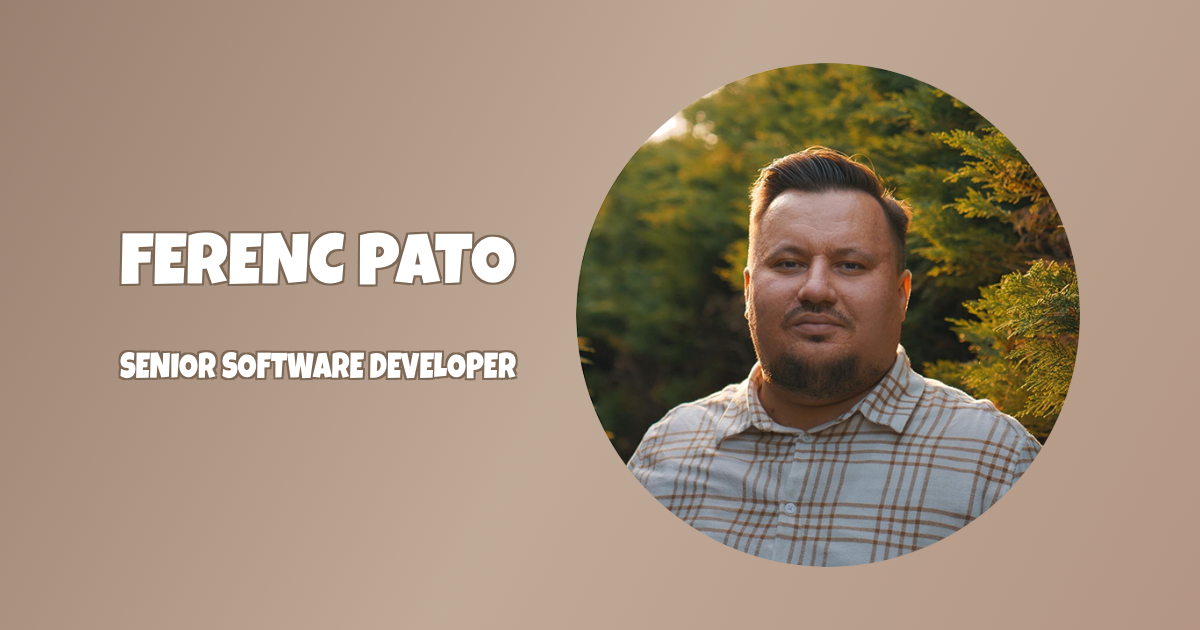
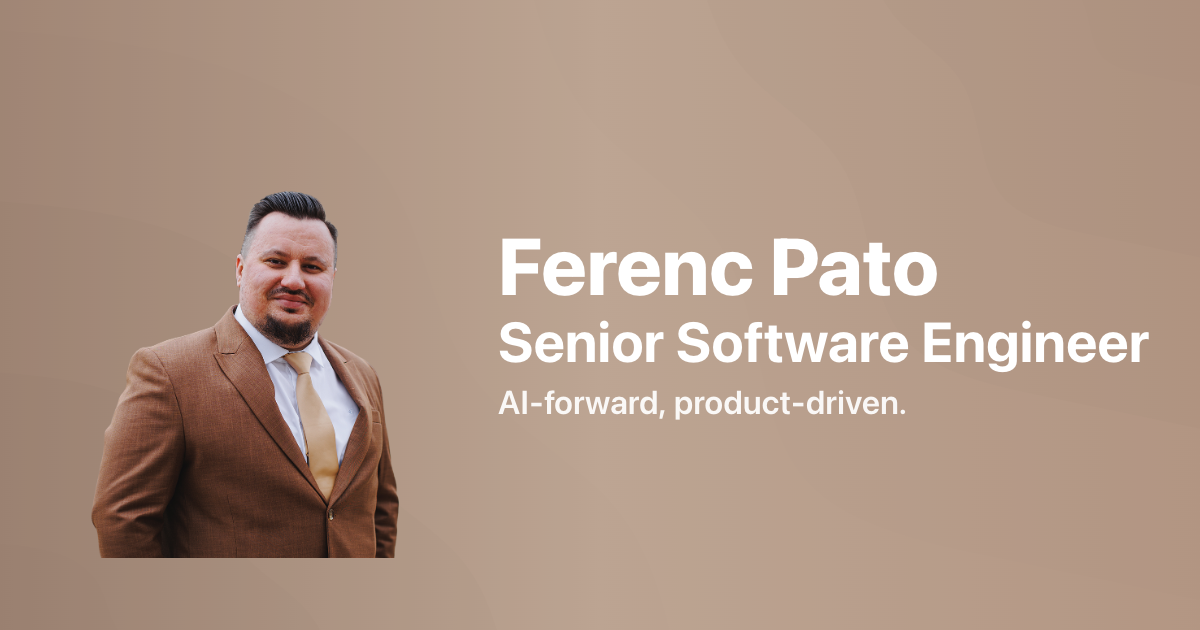
Redesign hero preview generator layout and visuals
Updated the logo-generator.html to use a new portrait image, add a soft blob background, and improve the layout for better alignment and aesthetics. Changed the title and heading to 'Hero Preview Generator', adjusted text styling, and enhanced the canvas drawing logic for a more modern and visually appealing preview. Also updated the preview image to match the new design.

diff --git a/logo-generator.html b/logo-generator.html
@@ -3,7 +3,7 @@
 <head>
     <meta charset="UTF-8">
     <meta name="viewport" content="width=device-width, initial-scale=1.0">
-    <title>Social Media Preview Generator</title>
+    <title>Hero Preview Generator</title>
     <link rel="stylesheet" href="css/styles.css">
     <link rel="stylesheet" href="https://fonts.googleapis.com/css2?family=SF+Pro+Display:wght@400;500;600;700&display=swap">
     <style>
@@ -48,7 +48,7 @@
 </head>
 <body>
     <div class="preview-container">
-        <h1>Social Media Preview Generator</h1>
+        <h1>Hero Preview Generator</h1>
         <div class="canvas-container">
             <canvas id="previewCanvas"></canvas>
         </div>
@@ -62,57 +62,96 @@
         const canvas = document.getElementById('previewCanvas');
         const ctx = canvas.getContext('2d');
         const portrait = new Image();
-        portrait.src = 'images/portrait.png';
+        portrait.src = 'images/portrait2.png';
+        const blobBg = new Image();
+        blobBg.src = 'images/blob-bg.svg';
 
         function generatePreview(width, height) {
             canvas.width = width;
             canvas.height = height;
 
-            // Draw background gradient
-            const gradient = ctx.createLinearGradient(0, 0, width, height);
+            // Draw background gradient matching index hero
+            const gradient = ctx.createLinearGradient(0, 0, width, 0);
             gradient.addColorStop(0, '#9a8070');
             gradient.addColorStop(0.5, '#c0aa98');
             gradient.addColorStop(1, '#b39683');
             ctx.fillStyle = gradient;
             ctx.fillRect(0, 0, width, height);
 
-            // Calculate portrait size and position first
-            const portraitSize = height * 0.8;
-            const portraitX = width - portraitSize - width * 0.1;
-            const portraitY = (height - portraitSize) / 2;
-            
-            // Calculate text area width to avoid overlap
-            const textAreaWidth = portraitX - width * 0.15; // Leave some space between text and image
-
-            // Add text shadow effect
-            function addTextShadow(text, x, y, fontSize, maxWidth) {
-                ctx.font = `${fontSize}px "Luckiest Guy"`;
-                const shadowColor = '#7c6755';
-                const shadowOffset = 2;
-                
-                // Draw shadow
-                ctx.fillStyle = shadowColor;
-                ctx.fillText(text, x - shadowOffset, y - shadowOffset, maxWidth);
-                ctx.fillText(text, x + shadowOffset, y - shadowOffset, maxWidth);
-                ctx.fillText(text, x - shadowOffset, y + shadowOffset, maxWidth);
-                ctx.fillText(text, x + shadowOffset, y + shadowOffset, maxWidth);
-                
-                // Draw main text
-                ctx.fillStyle = '#fff';
-                ctx.fillText(text, x, y, maxWidth);
+            // Overlay blob background (soft)
+            if (blobBg.complete) {
+                ctx.save();
+                ctx.globalAlpha = 0.25;
+                const bw = blobBg.width || width;
+                const bh = blobBg.height || height;
+                const scale = Math.max(width / bw, height / bh);
+                const dw = bw * scale;
+                const dh = bh * scale;
+                const dx = (width - dw) / 2;
+                const dy = (height - dh) / 2;
+                ctx.drawImage(blobBg, dx, dy, dw, dh);
+                ctx.restore();
             }
 
-            // Apply text shadows with maximum width - adjusted Y positions to be more centered
-            addTextShadow('FERENC PATO', width * 0.1, height * 0.45, 72, textAreaWidth);
-            addTextShadow('SENIOR SOFTWARE DEVELOPER', width * 0.1, height * 0.6, 36, textAreaWidth);
+            // Layout
+            const padding = Math.round(width * 0.06);
+            const gap = Math.round(width * 0.04);
 
-            // Draw portrait
-            ctx.save();
-            ctx.beginPath();
-            ctx.arc(portraitX + portraitSize/2, portraitY + portraitSize/2, portraitSize/2, 0, Math.PI * 2);
-            ctx.clip();
-            ctx.drawImage(portrait, portraitX, portraitY, portraitSize, portraitSize);
-            ctx.restore();
+            // Portrait: bottom-left, larger, preserve aspect ratio
+            let imgW = portrait.width || 1;
+            let imgH = portrait.height || 1;
+            const maxImgW = Math.floor(width * 0.45); // larger image, still leaves room for text
+            const maxImgH = Math.floor(height * 0.60);
+            const imgScale = Math.min(maxImgW / imgW, maxImgH / imgH);
+            const drawW = Math.floor(imgW * imgScale);
+            const drawH = Math.floor(imgH * imgScale);
+            const imgX = padding;
+            const imgY = Math.floor(height - drawH - padding);
+            if (portrait.complete) {
+                ctx.drawImage(portrait, imgX, imgY, drawW, drawH);
+            }
+
+            // Text: to the right of the image; vertically centered in canvas
+            const textX = imgX + drawW + gap;
+            ctx.fillStyle = '#ffffff';
+            ctx.textBaseline = 'alphabetic';
+
+            const nameSize = Math.max(42, Math.min(80, Math.floor(width * 0.07)));
+            const roleSize = Math.floor(nameSize * 0.7);
+            const subSize = Math.max(20, Math.floor(nameSize * 0.42));
+
+            const blockHeight = nameSize + Math.floor(roleSize * 1.2) + Math.floor(subSize * 1.6);
+            let topStartY = Math.floor((height - blockHeight) / 2);
+            // keep text within padding bounds
+            topStartY = Math.max(padding, Math.min(topStartY, height - padding - blockHeight));
+
+            ctx.font = `800 ${nameSize}px "SF Pro Display", -apple-system, BlinkMacSystemFont, sans-serif`;
+            const nameY = topStartY + nameSize;
+            ctx.fillText('Ferenc Pato', textX, nameY);
+
+            ctx.font = `700 ${roleSize}px "SF Pro Display", -apple-system, BlinkMacSystemFont, sans-serif`;
+            const roleY = nameY + Math.floor(roleSize * 1.2);
+            ctx.fillText('Senior Software Engineer', textX, roleY);
+
+            ctx.font = `600 ${subSize}px "SF Pro Display", -apple-system, BlinkMacSystemFont, sans-serif`;
+            ctx.fillStyle = 'rgba(255,255,255,0.92)';
+            const subY = roleY + Math.floor(subSize * 1.6);
+            ctx.fillText('AI-forward, product-driven.', textX, subY);
+
+            function roundedRect(c, x, y, w, h, r) {
+                const rr = Math.min(r, h / 2, w / 2);
+                c.beginPath();
+                c.moveTo(x + rr, y);
+                c.lineTo(x + w - rr, y);
+                c.quadraticCurveTo(x + w, y, x + w, y + rr);
+                c.lineTo(x + w, y + h - rr);
+                c.quadraticCurveTo(x + w, y + h, x + w - rr, y + h);
+                c.lineTo(x + rr, y + h);
+                c.quadraticCurveTo(x, y + h, x, y + h - rr);
+                c.lineTo(x, y + rr);
+                c.quadraticCurveTo(x, y, x + rr, y);
+                c.closePath();
+            }
         }
 
         // Set up download handlers
@@ -129,10 +168,10 @@
 
         // Wait for font and image to load
         Promise.all([
-            document.fonts.load('72px "Luckiest Guy"'),
-            new Promise(resolve => {
-                portrait.onload = resolve;
-            })
+            document.fonts.load('800 72px "SF Pro Display"'),
+            document.fonts.load('600 36px "SF Pro Display"'),
+            new Promise(resolve => { portrait.onload = resolve; }),
+            new Promise(resolve => { blobBg.onload = resolve; })
         ]).then(() => {
             setupDownload('downloadTwitter', 1200, 630);
             setupDownload('downloadFacebook', 1200, 630);
